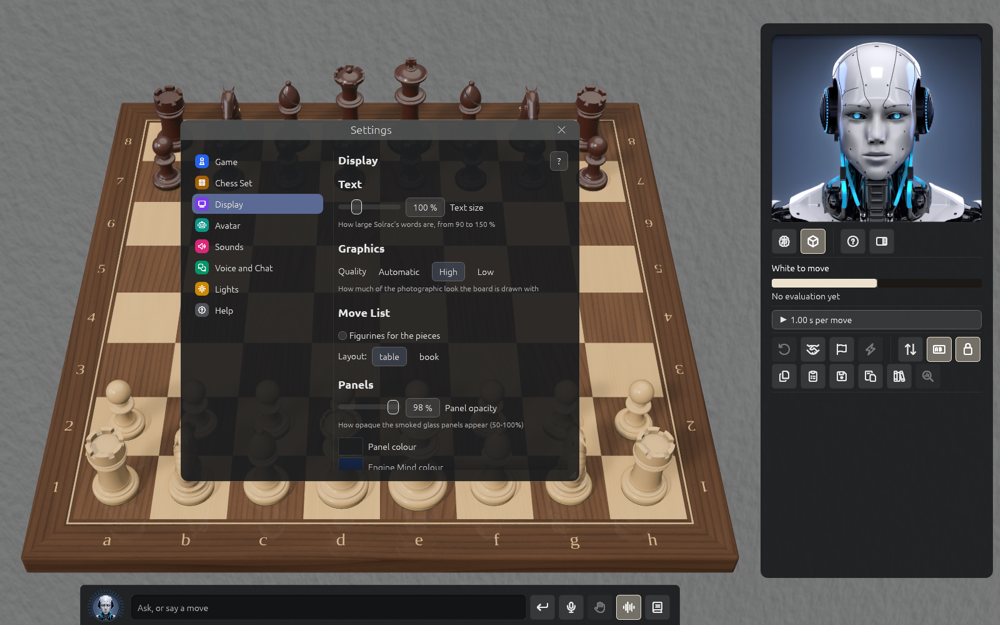
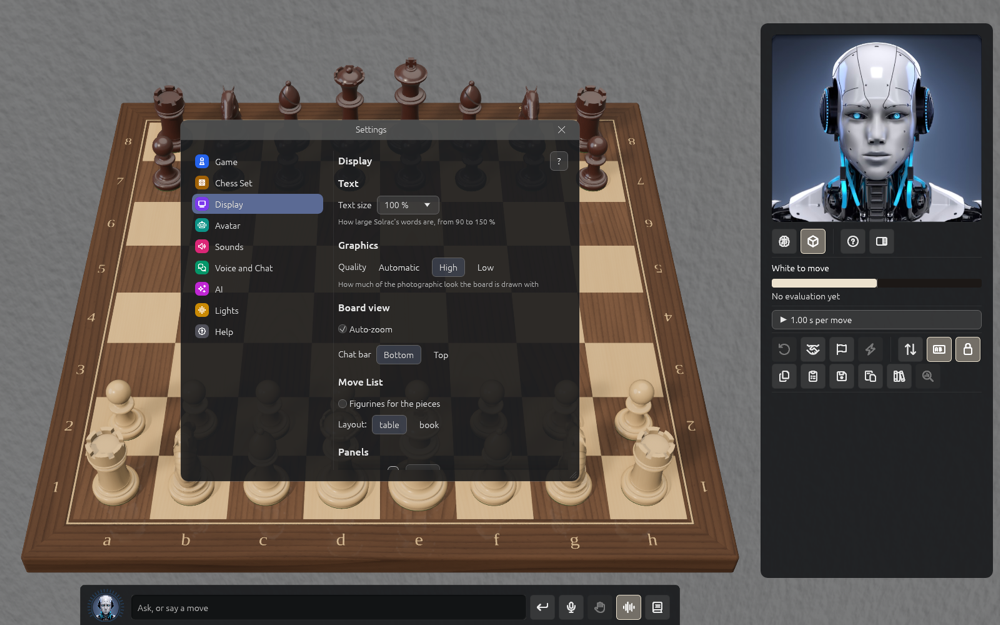
iPad menus and Text size, as Solrac changed them (cjus/chessgui#862)
On an iPad the 2D / 3D button is in the menus' row of buttons, Copy PGN and
Copy FEN are in the … menu, and About Solrac is the menus' last item, with the
version at their bottom. Text size is a dropdown; the Display picture is
rendered again.

diff --git a/book/src/playing.md b/book/src/playing.md
@@ -162,14 +162,17 @@ two are also in the **Game** menu:
 - **Paste** loads what is on the clipboard: a game (PGN) or a position (FEN). If it holds several
   games, they go to your library instead.
 
+On an iPad, **Copy PGN** and **Copy FEN** are in the **…** menu, in the row of buttons at the top
+of the menus on the left.
+
 You can also drop a `.pgn` file on the window. See [Your games library](games.md).
 
 ## The 2D board
 
 Prefer a flat board, or is your computer slow? The panel's **2D / 3D** button (the cube, in the
 row under Solrac's face) switches between the two boards: lit, the 3D board shows; click it for
-the 2D one, and again for the 3D one. On an iPad it is at the top of the inspector, beside
-Solrac's name. **Settings → Chess Set → Main view → 2D board** does the
+the 2D one, and again for the 3D one. On an iPad it is in the row of buttons at the top of the
+menus on the left, beside the **…** button. **Settings → Chess Set → Main view → 2D board** does the
 same, and Solrac remembers either. The 2D board fills the window with a large flat board instead
 of the 3D one, and nothing of the 3D scene is
 drawn, which is much lighter on the computer. **Automatic**, the default, chooses it for you on

diff --git a/book/src/preferences.md b/book/src/preferences.md
@@ -129,9 +129,8 @@ How Solrac explains things in the chat and on the board.
 
 ![Settings, the Display page](images/preferences-display.png)
 
-- **Text**: **Text size** has five steps: 90, 100 (the usual), 115, 130 and 150 %. Drag the
-  slider, or type a percentage and it moves to the nearest step. ⌘+ and ⌘− (the View menu's
-  Larger Text and Smaller Text) change it too.
+- **Text**: **Text size** has five steps: 90, 100 (the usual), 115, 130 and 150 %. Choose
+  one from its list. ⌘+ and ⌘− (the View menu's Larger Text and Smaller Text) change it too.
 - **Graphics**: **Quality**, **Automatic**, **High** or **Low**. A line under it says what
   Automatic is drawing. See [On a slower computer](slow-computers.md).
 - **Board view**: **Auto-zoom** (on to start). When a panel opens, the board zooms to the

diff --git a/book/src/getting-started.md b/book/src/getting-started.md
@@ -116,6 +116,8 @@ them.
   opens its part of the help. The icon at the top right of its panel opens it in a window of its own, for a
   second monitor: a **?** in Settings and a link in a page show their page there.
 - [Keyboard shortcuts](shortcuts.md) lists every key.
-- **Solrac → About Solrac** says which version you have; say so when you write to us.
+- **Solrac → About Solrac** says which version you have; say so when you write to us. On an
+  iPad, **About Solrac** is the last of the menus on the left, and the version is at their
+  bottom.
 - **Help → Feedback…** sends a note to PNXStudios. You need to be signed in.
 - **Help → Solrac Documentation** opens the engine's book (cb2026), not this guide.
